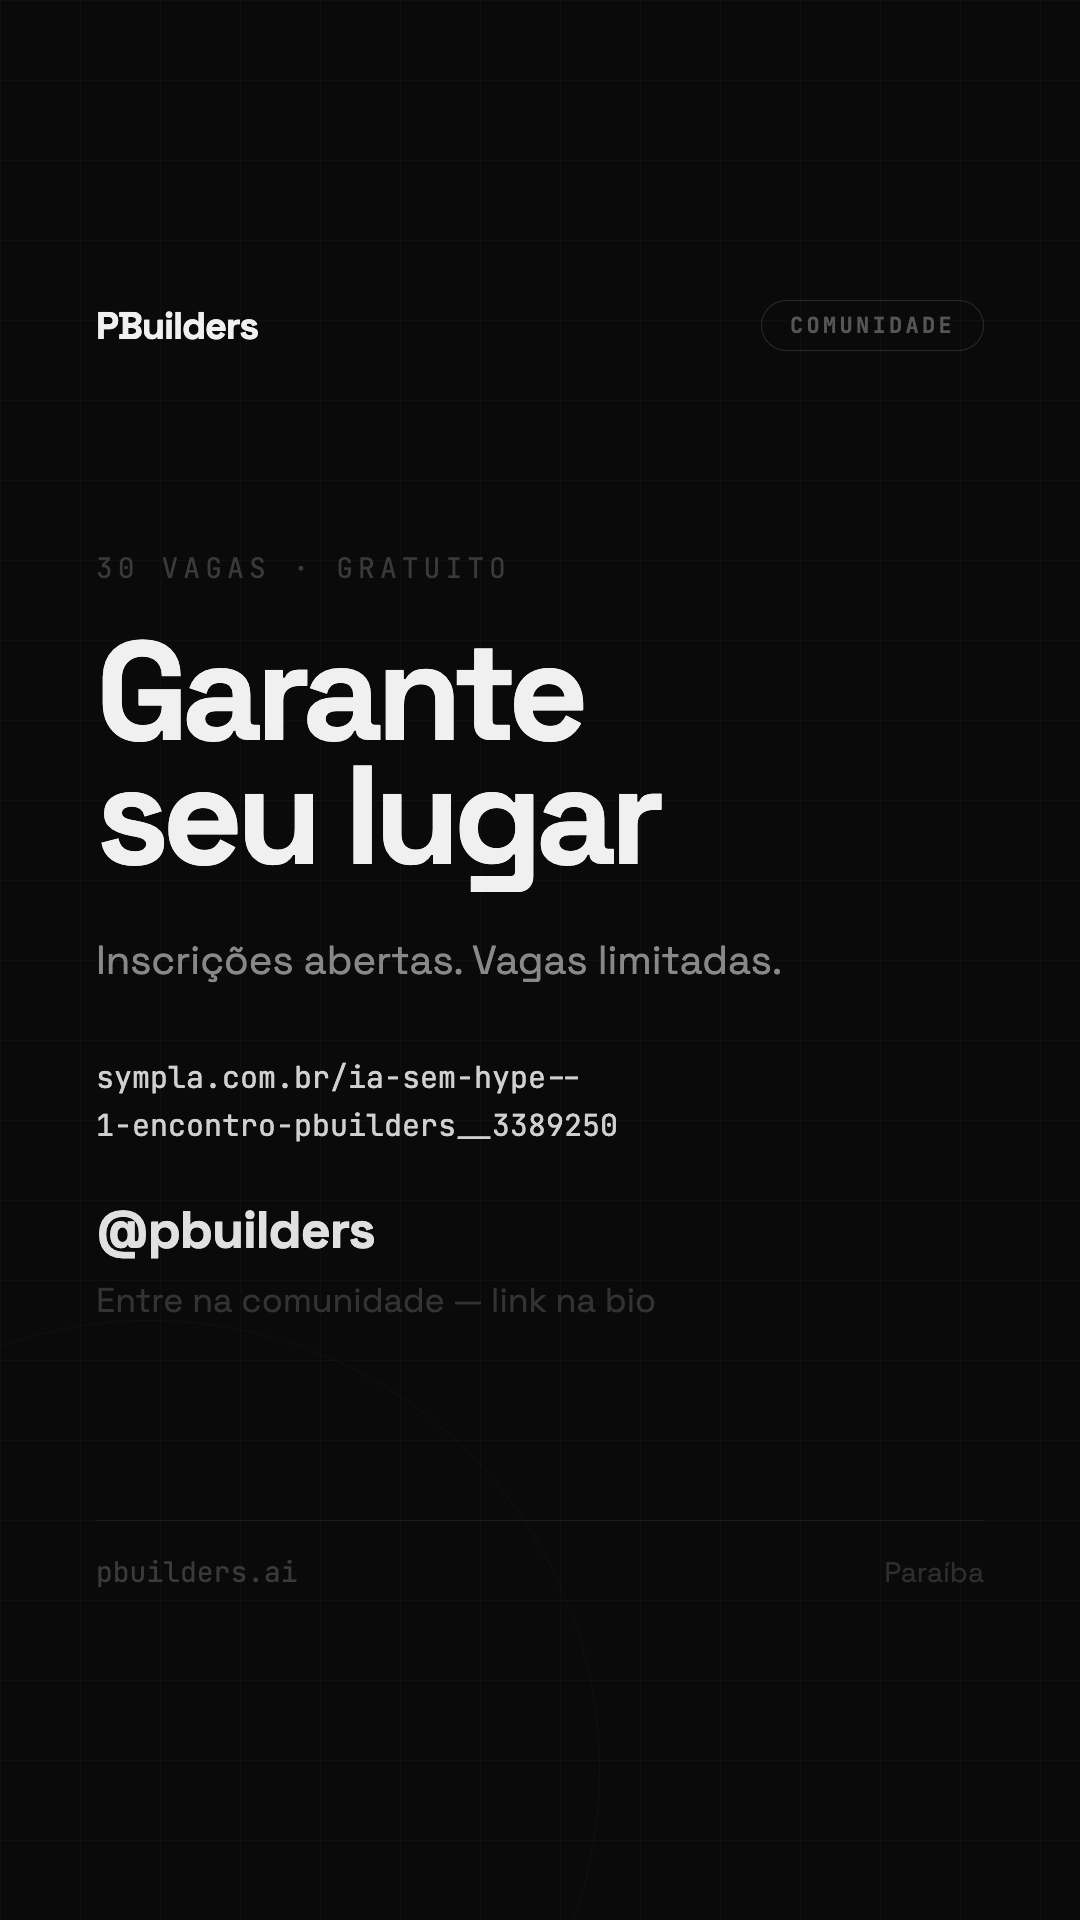
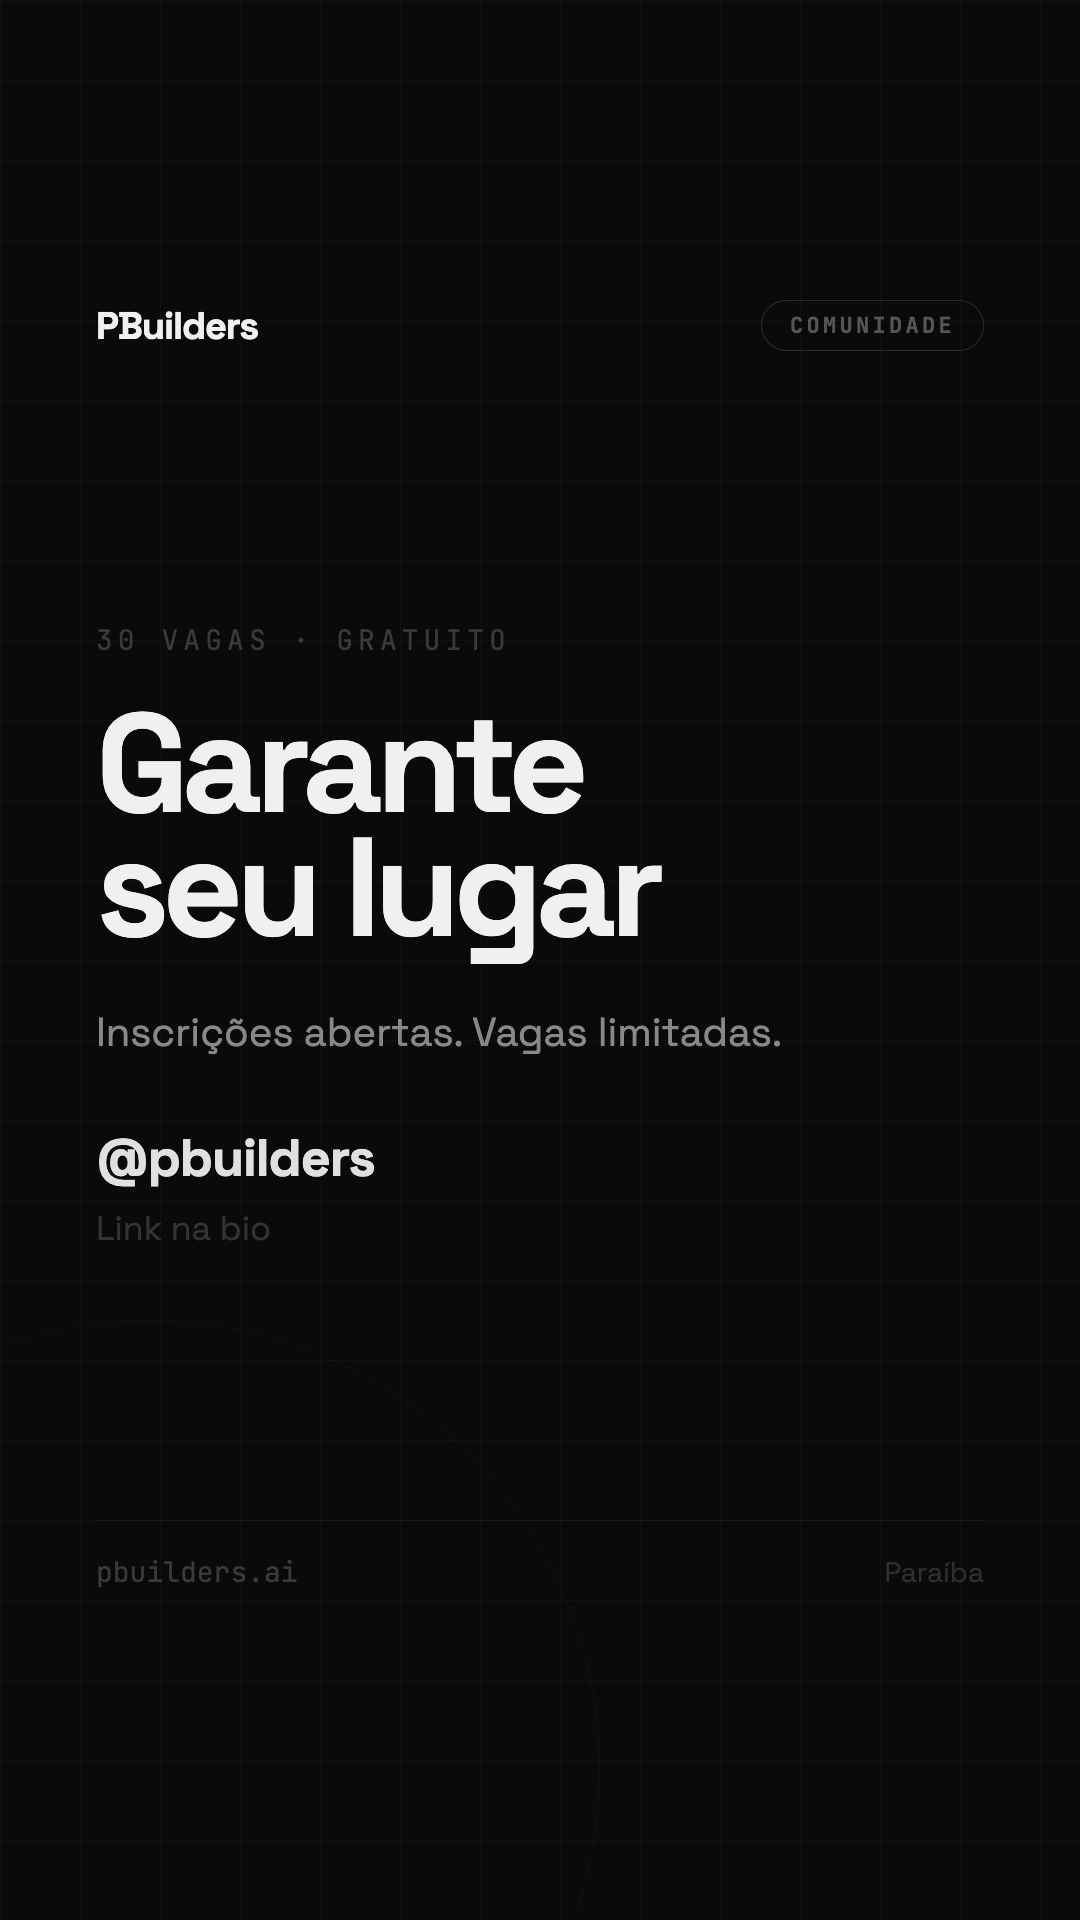
CTA: remover link Sympla, usar apenas link na bio
Carrossel slide 9 e Stories slide 4 — @pbuilders + "Link na bio"

Changed region(s): [[0.0917, 0.2812, 0.7028, 0.6875], [0.5194, 0.6562, 0.55, 0.6875], [0.4583, 0.6562, 0.4889, 0.6875]]

diff --git a/content/2026-04-17-primeiro-encontro/instagram-carousel.html b/content/2026-04-17-primeiro-encontro/instagram-carousel.html
@@ -863,15 +863,12 @@
       </div>
 
       <div class="cta-sub">
-        Inscrições abertas. Vagas limitadas.<br>
-        Link na bio ou acesse direto:
+        Inscrições abertas. Vagas limitadas.
       </div>
-
-      <div class="sympla-link">sympla.com.br/ia-sem-hype--<br>1-encontro-pbuilders__3389250</div>
 
       <div class="handle-block">
         <div class="handle">@pbuilders</div>
-        <div class="handle-desc">Entre na comunidade — link na bio</div>
+        <div class="handle-desc">Link na bio</div>
       </div>
     </div>
 

diff --git a/content/2026-04-17-primeiro-encontro/instagram-stories.html b/content/2026-04-17-primeiro-encontro/instagram-stories.html
@@ -409,9 +409,8 @@
       <div class="cta-sub">
         Inscrições abertas. Vagas limitadas.
       </div>
-      <div class="sympla">sympla.com.br/ia-sem-hype--<br>1-encontro-pbuilders__3389250</div>
       <div class="handle">@pbuilders</div>
-      <div class="handle-desc">Entre na comunidade — link na bio</div>
+      <div class="handle-desc">Link na bio</div>
     </div>
 
     <div class="footer">
